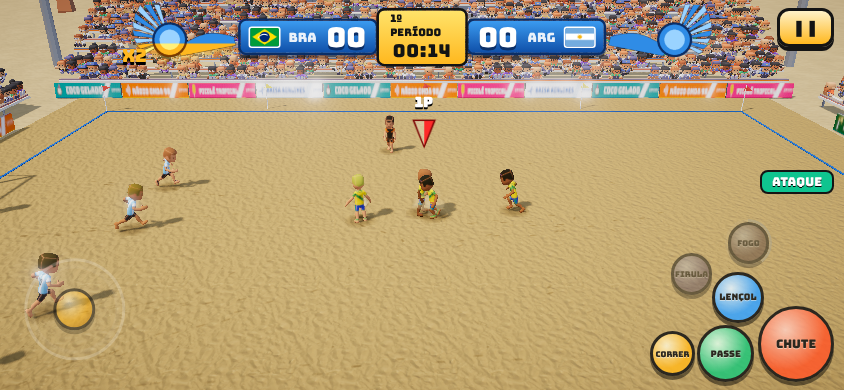
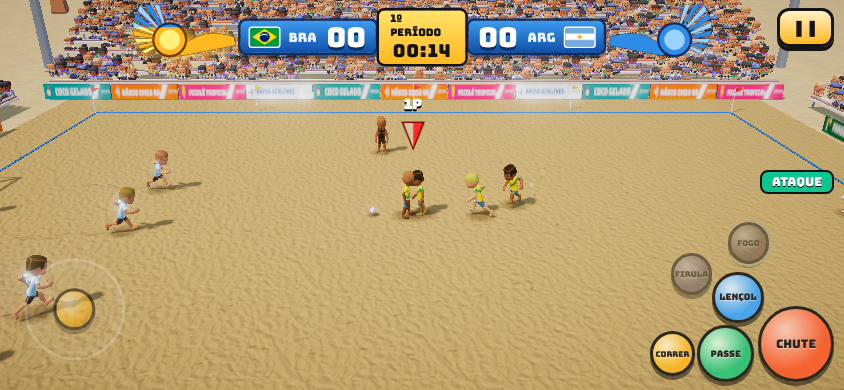
Toque com 3 botões grandes, passe no pé de verdade, CPU menos afobada, câmera mais aberta
- Recebedor espera a bola parado mesmo com o dedo no joystick; passe mais rápido
- 3 botões: CHUTE/PASSE/LENÇOL (ataque), CARRINHO/TROCAR/MARCAR (defesa); correr = joystick na borda
- Chapéu = segurar CHUTE + tocar PASSE; FOGO vira botão no topo quando a barra enche
- CPU mais lenta, pressão sem disparada de longe, marcação mais solta; câmera mais aberta no celular
- QA de toques atualizado para o novo layout

Claude-Session: https://claude.ai/code/session_01SZRMGLNJbngvwk127EqV8r

diff --git a/areia-quente/src/match/Match.ts b/areia-quente/src/match/Match.ts
@@ -101,7 +101,7 @@ export class Match {
     home.opp = away; away.opp = home;
     home.devices = opts.homeDevices; away.devices = opts.awayDevices;
     const diff = settings.data.difficulty;
-    for (const tm of [home, away]) tm.speedMul = tm.human ? 1 : [0.9, 1.0, 1.07][diff];
+    for (const tm of [home, away]) tm.speedMul = tm.human ? 1 : [0.86, 0.93, 1.02][diff]; // CPU um pouco mais lenta: dá tempo de pensar o passe
     this.teams = [home, away];
     const size = opts.mini || opts.mode === 'training' ? 5 : opts.size ?? 5;
     home.build(size); away.build(size);
@@ -109,6 +109,7 @@ export class Match {
     this.ball = new Ball();
     this.ref = new Athlete(Math.random() < 0.5 ? 'textures/kits/referee_0.webp' : 'textures/kits/referee_1.webp');
     this.cam = new CameraDirector(world.camera);
+    if (input.touch) this.cam.zoom = 1.16; // celular: câmera mais aberta, mais campo à vista
     this.hud = new Hud(home, away);
     this.periodLen = 720;
     this.timeScale = 720 / (settings.data.periodMinutes * 60);
@@ -330,7 +331,7 @@ export class Match {
     const canMove = p.stun <= 0 && p.sliding <= 0 && !(p.kick && !p.kick.done) && !this.ball.held;
     let sprint = input.held(dev, 'sprint');
     // recepção estilo PES/FIFA: direcional solto e passe vindo para ele → para, vira para a bola e espera no pé
-    const waiting = this.passTo === p && !hasBall && mv.lengthSq() < 0.04 && (!this.ball.owner || this.ball.owner.team === tm);
+    const waiting = this.passTo === p && !hasBall && (!this.ball.owner || this.ball.owner.team === tm); // espera no lugar, mesmo com o dedo no joystick
     if (waiting) { p.vel.multiplyScalar(Math.exp(-10 * dt)); p.faceTo(this.ball.pos.clone().sub(p.pos).setY(0), dt, 10); }
     // MARCAR (toque): corre sozinho atrás da bola/adversário enquanto o botão estiver pressionado
     if (input.isDown('TouchPress') && dev === 'kb' && !hasBall && mv.lengthSq() < 0.04) {
@@ -375,7 +376,7 @@ export class Match {
     if (input.pressed(dev, 'lob') && hasBall) this.doPass(p, this.aimOf(dev, mv), true);
     else if (input.pressed(dev, 'lob') && this.opts.mode === 'training') this.trainerCross();
     else if (input.pressed(dev, 'lob') && this.ball.owner && this.ball.owner.team === tm) this.requestPass(p, true);
-    if (input.pressed(dev, 'trick')) this.doTrick(p);
+    if (input.pressed(dev, 'trick')) { p.shootHold = 0; this.doTrick(p); }
     if (input.pressed(dev, 'tackle') && !hasBall) this.doTackle(p, sprint);
     // chute: segurar = força; bola no alto = finalização acrobática imediata
     if (input.pressed(dev, 'shoot') && !hasBall && this.aerialChance(p)) { this.doShoot(p, 0.8, mv); p.shootHold = 0; }
@@ -652,8 +653,8 @@ export class Match {
           // areia segura muito a bola: a velocidade de saída é calculada para ela chegar viva (~5 m/s) no recebedor,
           // e o alvo é onde ele vai estar quando a bola chegar
           // no pé: mira a posição do recebedor (ele espera a bola); só antecipa quem está correndo na tabela
-          let sp = rollSpeedFor(d, 6.5);
-          if (target && target.runT > 0) { const tArr = rollTime(sp, d); tp = target.pos.clone().addScaledVector(target.vel, Math.min(1.0, tArr * 0.8)); sp = rollSpeedFor(tp.distanceTo(b.pos), 6.5); }
+          let sp = rollSpeedFor(d, 9);
+          if (target && target.runT > 0) { const tArr = rollTime(sp, d); tp = target.pos.clone().addScaledVector(target.vel, Math.min(1.0, tArr * 0.8)); sp = rollSpeedFor(tp.distanceTo(b.pos), 9); }
           const blocked = target && Math.min(...tm.opp.field.map((o) => distToSeg(o.pos, b.pos, target.pos))) < 0.9 && tp.distanceTo(b.pos) > 3;
           if (blocked) {
             // linha fechada: passe picado por cima do marcador, caindo no pé do recebedor

diff --git a/areia-quente/src/ui/Touch.ts b/areia-quente/src/ui/Touch.ts
@@ -39,6 +39,7 @@ export class TouchControls {
   private hint: HTMLElement;
   private hintT = 0;
   private visible = false;
+  private fireTop!: HTMLElement;
   /** layout dos botões: ATAQUE (com a bola), APOIO (companheiro com a bola) ou DEFESA */
   mode: Mode = 'atk';
   private pendingSince = 0;
@@ -53,13 +54,16 @@ export class TouchControls {
     r.innerHTML = `<div class="t-zone"></div><div class="t-stick"><div class="t-knob"></div></div>
       <div class="t-btns">${ACTIONS.map(([a, l, c]) => `<div class="t-btn ${c}" data-a="${a}"><span>${l}</span></div>`).join('')}</div>
       <div class="t-hint"></div>
-      <div class="t-top"><div class="t-skip">PULAR ▶▶</div><div class="t-pause">❚❚</div></div>`;
+      <div class="t-top"><div class="t-fire">🔥 FOGO</div><div class="t-skip">PULAR ▶▶</div><div class="t-pause">❚❚</div></div>
+      <div class="t-combo">segure CHUTE + toque PASSE = chapéu</div>`;
     document.getElementById('app')!.appendChild(r);
     this.stickBase = r.querySelector('.t-stick')!;
     this.stickKnob = r.querySelector('.t-knob')!;
     this.skip = r.querySelector('.t-skip')!;
     this.pauseBtn = r.querySelector('.t-pause')!;
     this.hint = r.querySelector('.t-hint')!;
+    this.fireTop = r.querySelector('.t-fire')!;
+    this.fireTop.addEventListener('pointerdown', (e) => { e.preventDefault(); this.tap(settings.data.keys.fire); this.log.push('fire:on'); });
 
     // joystick: o toque em qualquer ponto da metade esquerda vira o centro do direcional
     const zone = r.querySelector('.t-zone') as HTMLElement;
@@ -87,6 +91,14 @@ export class TouchControls {
       e.preventDefault();
       const b = this.pick(e.clientX, e.clientY);
       if (!b) return;
+      // chapéu / firula: segurando CHUTE e tocando PASSE (no lugar de um botão só para isso)
+      const shootHeld = this.btns.find((x) => x.action === 'shoot')!.ids.size > 0;
+      if (b.action === 'pass' && shootHeld && this.mode === 'atk') {
+        this.tap(settings.data.keys.trick);
+        this.log.push('trick:combo');
+        if (settings.data.vibrate !== false) navigator.vibrate?.([8, 30, 8]);
+        return;
+      }
       try { pad.setPointerCapture(e.pointerId); } catch { /* iOS antigo */ }
       this.byPointer.set(e.pointerId, b);
       b.ids.add(e.pointerId);
@@ -245,6 +257,7 @@ export class TouchControls {
     av.press = !hasBall && !set;
     av.sprint = true;
     av.fire = !!tm && tm.heat >= 1 && tm.fire <= 0;
+    this.fireTop.classList.toggle('on', av.fire);
     for (const x of this.btns) x.el.classList.toggle('off', av[x.action] === false);
     // bola aérea ao alcance: CHUTE pisca (hora da bicicleta/voleio)
     this.root.classList.toggle('aerial', m.aerialCue);

diff --git a/areia-quente/src/style.css b/areia-quente/src/style.css
@@ -462,3 +462,26 @@ html.touch .hint { display: none; }
 .size-pick .a { font-family: var(--title); padding: 6px 14px; border-radius: 12px; border: 3px solid var(--ink); background: #ddd; color: var(--ink); cursor: pointer; }
 .size-pick .a.on { background: #22c77a; color: #fff; text-shadow: 0 1px 0 #000; }
 @media (max-height: 500px) { .size-pick { bottom: 92px; gap: 6px; } .size-pick span { font-size: 11px; } .size-pick .a { font-size: 12px; padding: 3px 9px; } }
+
+/* ---------- controles de toque: só 3 botões grandes ---------- */
+#touch .t-btns { width: calc(54vh * var(--ts, 1)); height: calc(54vh * var(--ts, 1)); min-width: calc(200px * var(--ts, 1)); min-height: calc(200px * var(--ts, 1)); }
+#touch .b-trick, #touch .b-sprint, #touch .b-fire { display: none !important; }
+#touch .t-btn { font-size: clamp(11px, 3vh, 17px); }
+/* principal (CHUTE no ataque / CARRINHO na defesa): canto, bem grande */
+#touch .b-shoot, #touch.def .b-tackle { right: 0 !important; bottom: 0 !important; width: 48% !important; height: 48% !important; font-size: clamp(13px, 3.8vh, 22px) !important; }
+/* segundo (PASSE / PEDIR / TROCAR): à esquerda do principal */
+#touch .b-pass { right: 51% !important; bottom: 1% !important; width: 40% !important; height: 40% !important; }
+/* terceiro (LENÇOL / PEDIR ALTO / MARCAR): acima, entre os dois */
+#touch .b-lob, #touch.def .b-press { right: 30% !important; bottom: 50% !important; width: 36% !important; height: 36% !important; }
+/* defesa: CHUTE some (3 botões só) */
+#touch.def .b-shoot { opacity: 0 !important; pointer-events: none; transform: scale(0.4); }
+#touch.def.training .b-lob { right: 30% !important; bottom: 50% !important; }
+#touch.def.training .b-press { right: 2% !important; bottom: 52% !important; width: 30% !important; height: 30% !important; }
+/* FOGO no topo, só quando a barra está cheia */
+#touch .t-fire { display: none; pointer-events: auto; touch-action: manipulation; font-family: var(--title); color: #fff; background: linear-gradient(180deg, #ffb347, #ff3e00);
+  border: 3px solid var(--ink); border-radius: 12px; box-shadow: 0 4px 0 var(--ink); padding: 6px 14px; font-size: 16px; text-shadow: 0 2px 0 #000; animation: aq-pulse 0.9s ease-in-out infinite; }
+#touch .t-fire.on { display: block; }
+#touch.cine .t-fire { display: none; }
+/* dica do chapéu, discreta, acima dos botões */
+#touch .t-combo { position: absolute; right: calc(env(safe-area-inset-right) + 12px); bottom: calc(54vh * var(--ts, 1) + 30px); font-size: 11px; font-weight: 800; opacity: 0.75; text-shadow: 0 1px 2px #000; pointer-events: none; }
+#touch.def .t-combo, #touch.sup .t-combo, #touch.cine .t-combo { display: none; }

diff --git a/areia-quente/src/match/AI.ts b/areia-quente/src/match/AI.ts
@@ -128,12 +128,14 @@ export function teamAI(m: Match, tm: Team, dt: number) {
     if (p === chaser && (!owner || owner.team !== tm) && !(!owner && m.passTo && m.passTo.team === tm)) { // passe do time a caminho: ninguém corre atrás
       // pressão / disputa de bola
       const target = owner ? owner.pos.clone().addScaledVector(owner.vel, 0.3) : b.predict(0.25).setY(0);
-      moveTo(p, target, dt, true);
+      // pressão sem disparada contra o jogador humano (só corre a toda quando está perto ou no difícil)
+      const far = target.distanceTo(p.pos) > 5;
+      moveTo(p, target, dt, !(owner?.device && far && diff < 2));
       p.aiT -= dt;
       if (owner && p.aiT <= 0) {
         p.aiT = REACT[diff] + Math.random() * 0.3;
         const d = owner.pos.distanceTo(p.pos);
-        if (d < 1.2 && Math.random() < 0.45 * st.press) m.doTackle(p, false);
+        if (d < 1.2 && Math.random() < (owner.device ? 0.3 : 0.45) * st.press) m.doTackle(p, false);
         else if (d < 2.8 && d > 1.6 && Math.random() < 0.12 * st.press * (diff + 1) / 2) m.doTackle(p, true);
       }
       // bola no alto vindo na área de ataque: finalização acrobática
@@ -155,7 +157,7 @@ export function teamAI(m: Match, tm: Team, dt: number) {
     if (!attacking && owner) {
       // marcação: fica entre o adversário mais próximo e o gol
       const opp = owner.team.field.filter((o) => o !== owner && !o.isGK).sort((a, c) => a.pos.distanceTo(p.target) - c.pos.distanceTo(p.target))[0];
-      if (opp) p.target.lerp(opp.pos.clone().lerp(new THREE.Vector3(m.ownGoalX(tm), 0, 0), 0.25), 0.5);
+      if (opp) p.target.lerp(opp.pos.clone().lerp(new THREE.Vector3(m.ownGoalX(tm), 0, 0), 0.35), 0.4); // marcação mais solta, deixa espaço
     }
     moveTo(p, p.target, dt, p.target.distanceTo(p.pos) > 7, attacking ? undefined : b.pos.clone().sub(p.pos));
   }

diff --git a/areia-quente/src/core/Input.ts b/areia-quente/src/core/Input.ts
@@ -109,7 +109,7 @@ class InputSys {
       if (this.stick && Math.hypot(this.stick.x, this.stick.y) > 0.15) {
         const m = Math.min(1, Math.hypot(this.stick.x, this.stick.y));
         const ang = Math.atan2(this.stick.y, this.stick.x);
-        if (m > 0.93) b.sprint = true;
+        if (m > 0.85) b.sprint = true; // joystick na borda = correr (não precisa de botão)
         return { mx: Math.cos(ang) * Math.min(1, m * 1.15), my: Math.sin(ang) * Math.min(1, m * 1.15), buttons: b };
       }
       if (this.down.has('ShiftRight')) b.sprint = true;
